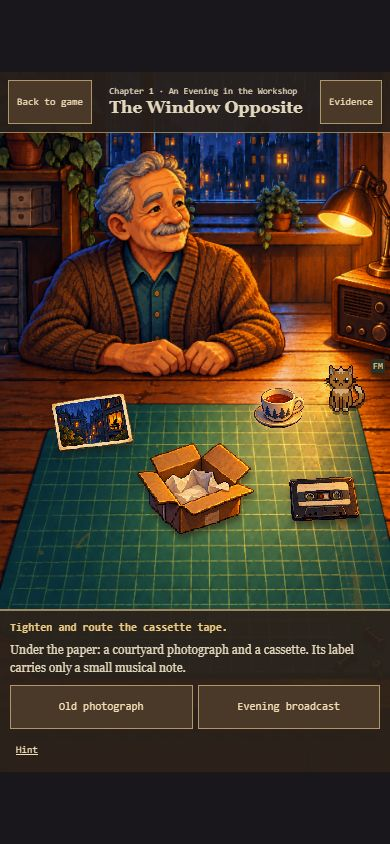
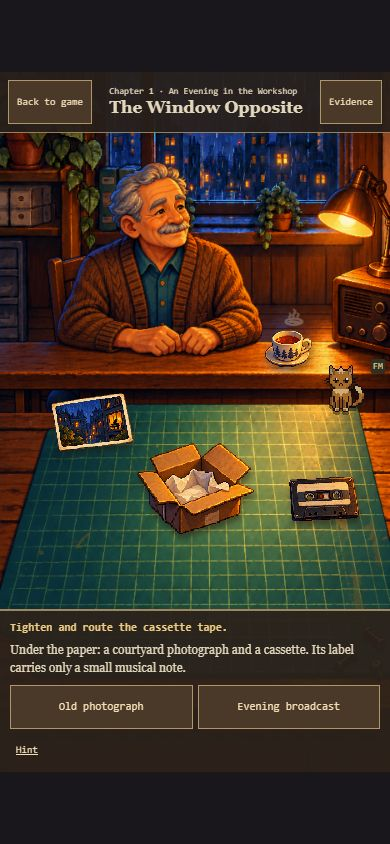
Fix visitor seating with visible chair and table geometry

Changed region(s): [[0.0, 0.154, 1.0, 0.5237], [0.8923, 0.4313, 1.0, 0.4929], [0.6769, 0.2156, 0.7077, 0.2464]]

diff --git a/index.html b/index.html
@@ -1,5 +1,5 @@
 <!doctype html>
-<html lang="en"><head><meta charset="UTF-8"><meta name="viewport" content="width=device-width,initial-scale=1,viewport-fit=cover"><meta name="theme-color" content="#211b24"><title>Мастерская историй</title><link rel="stylesheet" href="style.css?v=3"><link rel="stylesheet" href="atmosphere.css?v=3"><link rel="stylesheet" href="bench.css?v=9"><link rel="stylesheet" href="pixel-scene.css?v=5"><link rel="stylesheet" href="game-screen.css?v=5"><link rel="stylesheet" href="living-scene.css?v=7"><link rel="stylesheet" href="menu.css?v=6"><link rel="stylesheet" href="cat-animation.css?v=7"><link rel="stylesheet" href="remote.css?v=4"><link rel="stylesheet" href="coins.css?v=2"><link rel="stylesheet" href="dock.css?v=3"><link rel="stylesheet" href="stories.css?v=12"><link rel="stylesheet" href="device.css?v=10"><link rel="stylesheet" href="workshop.css?v=10"><link rel="stylesheet" href="repair-interaction.css?v=2"><link rel="stylesheet" href="memory.css?v=3"><link rel="stylesheet" href="repair-focus.css?v=1"><link rel="stylesheet" href="room-collection.css?v=2"><link rel="stylesheet" href="chapter-one.css?v=1"></head>
+<html lang="en"><head><meta charset="UTF-8"><meta name="viewport" content="width=device-width,initial-scale=1,viewport-fit=cover"><meta name="theme-color" content="#211b24"><title>Мастерская историй</title><link rel="stylesheet" href="style.css?v=3"><link rel="stylesheet" href="atmosphere.css?v=3"><link rel="stylesheet" href="bench.css?v=9"><link rel="stylesheet" href="pixel-scene.css?v=5"><link rel="stylesheet" href="game-screen.css?v=5"><link rel="stylesheet" href="living-scene.css?v=7"><link rel="stylesheet" href="menu.css?v=6"><link rel="stylesheet" href="cat-animation.css?v=7"><link rel="stylesheet" href="remote.css?v=4"><link rel="stylesheet" href="coins.css?v=2"><link rel="stylesheet" href="dock.css?v=3"><link rel="stylesheet" href="stories.css?v=12"><link rel="stylesheet" href="device.css?v=10"><link rel="stylesheet" href="workshop.css?v=10"><link rel="stylesheet" href="repair-interaction.css?v=2"><link rel="stylesheet" href="memory.css?v=3"><link rel="stylesheet" href="repair-focus.css?v=1"><link rel="stylesheet" href="room-collection.css?v=2"><link rel="stylesheet" href="chapter-one.css?v=2"></head>
 <body><main class="app">
             <!-- Контейнер частиц -->
             <div id="particles" class="particles" aria-hidden="true"></div>

diff --git a/chapter-one.css b/chapter-one.css
@@ -28,7 +28,7 @@
 .chapter-frame:is([data-stage="0"],[data-stage="1"]) :is(.chapter-prop,.chapter-focus>.chapter-art){filter:brightness(.8) saturate(.8)}
 .chapter-frame[data-visitor=true] .chapter-rain{left:50%;width:25%;height:19%}
 .chapter-world .room-collection[hidden]{display:none!important}
-.chapter-visitor-paint{position:absolute;inset:0;z-index:1;background:url('assets/room/chapter-one-visitor-v2.png') center/100% 100% no-repeat;pointer-events:none;clip-path:polygon(15% 9%,52% 9%,52% 24%,65% 26%,73% 35%,77% 43%,72% 46%,0 46%,0 31%,8% 25%,20% 23%)}
+.chapter-visitor-paint{position:absolute;inset:0;z-index:1;background:url('assets/room/chapter-one-visitor-v3.png') center/100% 100% no-repeat;pointer-events:none;clip-path:inset(0 0 50% 0)}
 .chapter-visitor-paint[hidden]{display:none}.chapter-frame:is([data-stage="0"],[data-stage="1"]) .chapter-visitor-paint{filter:brightness(.72) saturate(.68)}
 .chapter-frame[data-visitor=true] .chapter-cat{left:87%!important;--cat-floor:49%!important}
 .chapter-frame[data-mode=room] .chapter-narrative{max-height:42px}

diff --git a/chapter-one-ui.js b/chapter-one-ui.js
@@ -77,7 +77,7 @@ export function createChapterOneUI({getState,dispatch,sound,beforeOpen,onClose})
     addHotspot('radio',C.radio,[86,29,14,15],()=>focus('radio'));
     if(visitor) {
       addHotspot('guest',C.guest,[8,15,59,29],()=>focus('guest'));
-      if(has('tea')){const cup=addHotspot('tea',C.tea,[65,43,13,10],()=>focus('guest'));cup.classList.add('chapter-hot-tea');}
+      if(has('tea')){const cup=addHotspot('tea',C.tea,[68,35,12,9],()=>focus('guest'));cup.classList.add('chapter-hot-tea');}
     }
     if(has('delivered'))addHotspot('postcard',C.postcard,[39,55,28,14],()=>focus('postcard'));
     warmWindow.hidden=!has('delivered');

diff --git a/docs/art/chapter-one-visitor-v3.md b/docs/art/chapter-one-visitor-v3.md
@@ -1,0 +1,7 @@
+# Visitor seating geometry correction
+
+Built-in imagegen edit mode, opaque full scene. References: stage-2.png (room geometry) and chapter-one-visitor-v2.png (identity and faulty seating to correct). Output copied unchanged to assets/room/chapter-one-visitor-v3.png. Runtime now reveals the entire upper half so the chair, table apron and floor gap survive compositing; the former silhouette clip hid contextual geometry. Tea is placed on the visitor's table. Current screenshot: docs/qa/chapter-one-guest.png. Browser visual check and Android debug build passed on 2026-10-29. This is still one painted pose, without character animation.
+
+## Exact prompt
+
+Edit reference 1 (empty workshop) to add the elderly neighbour from reference 2, but FIX THE ROOM GEOMETRY so he cannot appear to emerge through wooden boards. The current reference 2 has a serious error: his torso intersects a continuous tabletop. Rebuild the upper-middle spatial arrangement. Draw a clearly visible horizontal BACK EDGE of the foreground workbench across the scene at about 43% image height, with a thick beveled edge and a narrow vertical apron. Behind that edge there must be a visible DARK FLOOR GAP separating the workbench from the rear wall, not more continuous tabletop. The man sits on a clearly visible wooden chair in that gap, on the far side of the table. Show the chair back behind his shoulders, torso above the table, elbows and hands resting on the tabletop in FRONT of the rear edge. His lower body is hidden naturally BEHIND the actual table edge, not cut off in the middle of planks. Show a small glimpse of his bent trouser-clad knee and chair leg in the floor gap at the LEFT SIDE of the table, so the seating arrangement is unambiguous. Keep head modest in scale around x34%, y19%, hands around y43%. Preserve the bottom 50% of image including green cutting mat and front edge exactly, preserve window and brass lamp and radio positions, the same pixel-art texture and warm/cool lighting. No UI, text, cat, parcel, tea or other gameplay objects. Opaque full portrait room. Critical: a real table has an END; the tabletop must end behind his hands. The rear edge, visible floor gap, chair back and side glimpse must make physical placement readable at phone size. Repaint the whole needed area coherently, not a portrait pasted on wood.
